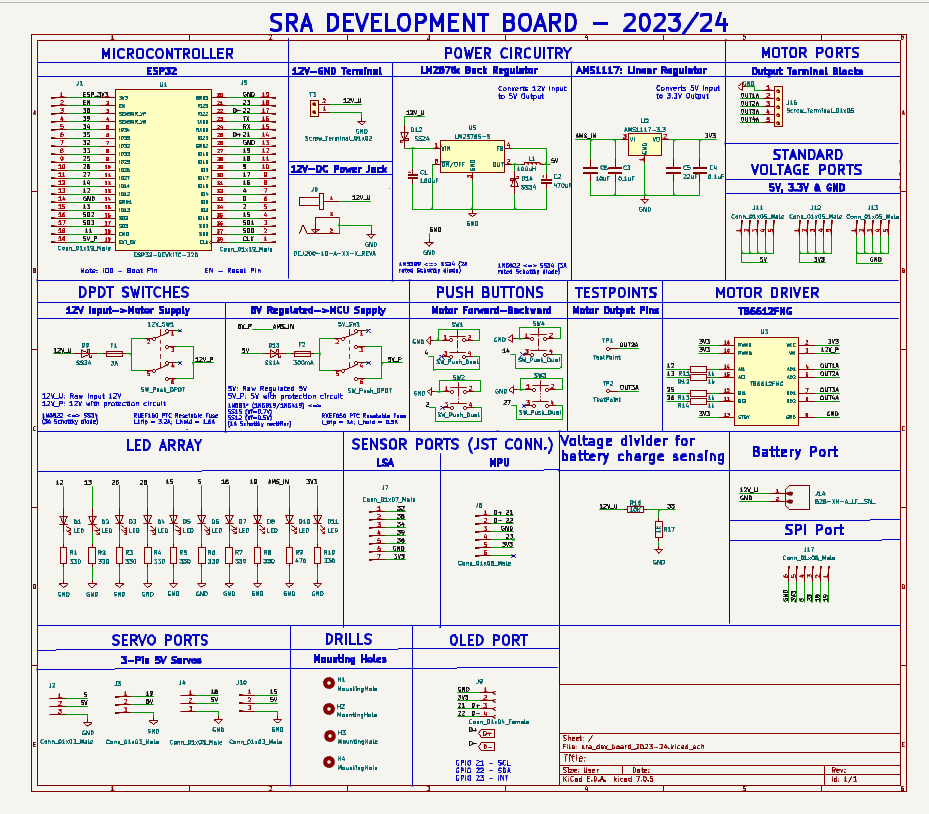
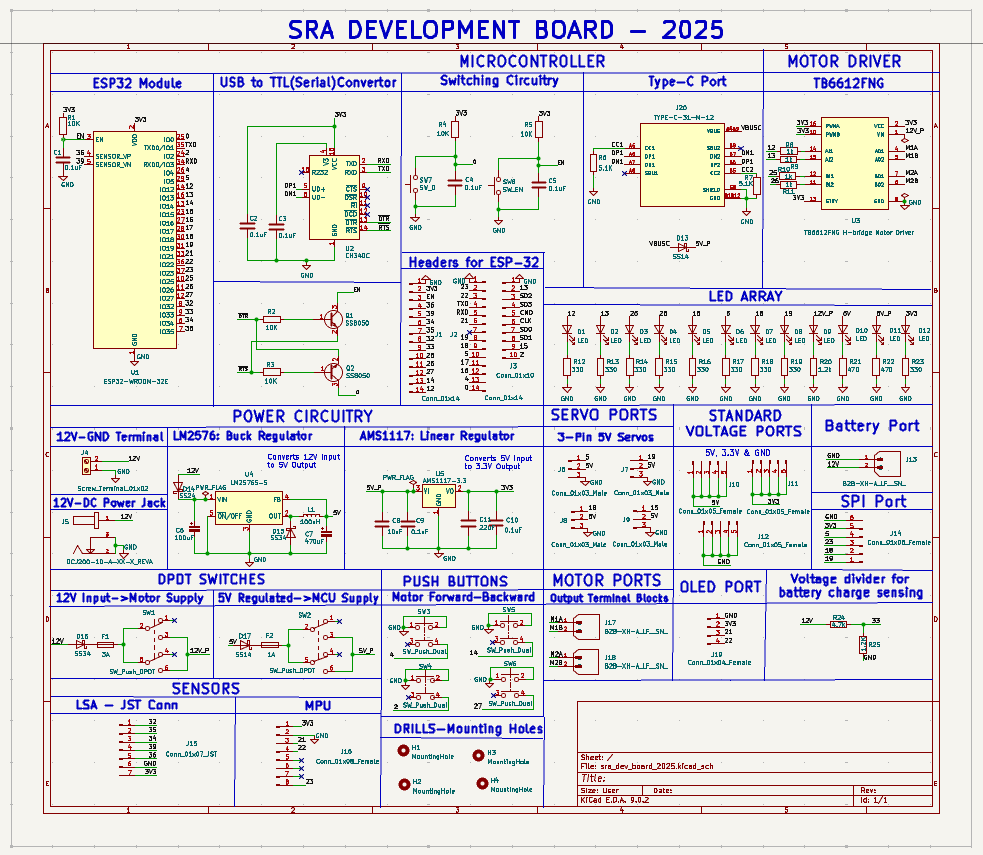
updated assets and readme for 2025 board

diff --git a/README.md b/README.md
@@ -15,11 +15,11 @@
   <p align="center">
     ESP32-based Development Board
     <br />
-    <a href="https://github.com/SRA-VJTI/sra-board-hardware-design/tree/master/sra_dev_board_2024">KiCAD</a>
+    <a href="https://github.com/SRA-VJTI/sra-board-hardware-design/tree/master/sra_dev_board_2025">KiCAD</a>
     ·
-    <a href="https://github.com/AtharvaAtre/SRA-Board/tree/master/gerbers">Gerber</a>
+    <a href="https://github.com/Vishal-Mutha/sra-board-hardware-design/tree/master/gerbers">Gerber</a>
     ·
-    <a href="https://github.com/AtharvaAtre/SRA-Board/blob/master/documentation/images/board_images/front.png">Images</a>
+    <a href="https://github.com/Vishal-Mutha/sra-board-hardware-design/blob/master/documentation/images/board_images/front.png">Images</a>
     ·
     <a href="https://a360.co/3c1Rjyv">3D Model</a>
   </p>
@@ -57,15 +57,15 @@ The SRA board is a development board based on ESP32 with on-board peripherals li
   <img width="410" height="450" src="./documentation/images/board_images/bottom.png"/>
 </p>
 
-- **Pinout**
+<!-- - **Pinout**
 <p align="center">
   <img width="540" height="450" src="./documentation/images/board_images/front_side_pinout.png"/>
-</p>
+</p> -->
 
 ## About the Project
 
 - This development board is used for the [Wall-E](https://github.com/SRA-VJTI/Wall-E) and [MARIO](https://github.com/SRA-VJTI/MARIO) workshops conducted by [SRA](https://github.com/SRA-VJTI).
-- Designed using KiCAD. The schematic and board files are [here](https://github.com/AtharvaAtre/SRA-Board/tree/master/sra_dev_board_2024).
+- Designed using KiCAD. The schematic and board files are [here](https://github.com/AtharvaAtre/SRA-Board/tree/master/sra_dev_board_2025).
 - Resources for [previous work](https://github.com/SRA-VJTI/sra-board-hardware-design/tree/v2.2).  For more details of the SRA board 2020, checkout this [link](https://github.com/SRA-VJTI/sra-board-hardware-design/releases/tag/v2.4).
 - The SRA board 2023 images can be found [here](https://github.com/SRA-VJTI/sra-board-hardware-design/tree/v2.4/documentation/images).
 - Older versions of the board and miscellaneous designs can be found [here](https://github.com/SRA-VJTI/PCB-Schematics-and-Layouts).
@@ -73,7 +73,7 @@ The SRA board is a development board based on ESP32 with on-board peripherals li
 ## Getting Started with a Development Board
 
 <p align="center">
-  <img width="410" height="400" src="./documentation/assets/boards_compare.png">
+  <img width="" height="400" src="./documentation/assets/boards_compare.png">
 </p>
 
 In general, every development board has the following basic features:
@@ -115,23 +115,28 @@ In general, every development board has the following basic features:
 
 > Now that we covered basics of development boards, let us talk about the changes made in the new design. 
 
-## Major Changes IN SRA Board Over the years from 2020-2024
-| Feature  |  SRA Board 2021  | SRA Board 2022 | SRA Board 2023 | SRA Board 2024 |
-|:----:|:-------:| :-----: | :-----: | :-----: |
-|[12V to 5V](#7805-5v-linear-regulator-to-lm2596-buck-convertor)  | LM2596 Buck Convertor | LM2596 Buck Converter | LM2576-S Buck Converter | LM2576-S Buck Converter |
-|[5V to 3.3V](#ld33-33v-to-ams1117)| AMS1117-3.3 | AMS1117-3.3 | AMS1117-3.3 | AMS1117-3.3 |
-|[Reverse Voltage Protection](#reverse-voltage-protection-diodes-to-p-mosfet) | P-MOSFET | Diodes | Diodes | Diodes |
-|[Line Sensing Arrays (LSA)](#lsa_2023) | Photodiodes| Photodiodes| IR Sensors| IR Sensors |
-|[Number of LSA Sensors](#num_of_sensors)| 4| 4| 5| 5 |
-|[Motor Driver](#l298n-to-tb6612fng)| TB6612FNG| TB6612FNG | TB6612FNG | TB6612FNG  |
-| [Stepper Motor Driver](#stepper-motor-driver-port-a4988) | - | - | A4988 | - |
-|[No. of DC Motor Channels](#motor-driver-modes)|4|4|2|2|
-|[No. of Stepper Motor Channels](#stepper-motor-driver-port-a4988)|0|0|1|1|
-|[No. of Switches](#moving-back-to-the-vintage-bar-graph-leds-and-more-switches)|4|4|4|2|
-|[No. of LEDs](#moving-back-to-the-vintage-bar-graph-leds-and-more-switches)|8|8|8|8|
-|[Over Current Protection](#protection-against-over-current)  | Bulky Glass Fuses | PTC Resettable Fuses | PTC Resettable Fuses| PTC Resettable Fuses|
-|[Sensor Port Connectors](#protection-against-over-current)  | JST (Japan Solderless Terminal) Connectors | JST (Japan Solderless Terminal) Connectors | JST Connectors | JST Connectors |
-|[Component Type and Board Size](#component-type-and-board-size)  | THT (Through Hole), Big | SMD(Surface Mount Device), Smaller | SMD(Surface Mount Device), Smaller| SMD(Surface Mount Device), Smaller|
+## Major Changes IN SRA Board Over the years from 2021-2025
+| Feature  |  SRA Board 2021  | SRA Board 2022 | SRA Board 2023 | SRA Board 2024 | SRA Board 2025 |
+|:----:|:-------:| :-----: | :-----: | :-----: | :-----: |
+|[12V to 5V](#7805-5v-linear-regulator-to-lm2596-buck-convertor)  | LM2596 Buck Convertor | LM2596 Buck Converter | LM2576-S Buck Converter | LM2576-S Buck Converter | LM2576-S Buck Converter |
+|[Reverse Voltage Protection](#reverse-voltage-protection-diodes-to-p-mosfet) | P-MOSFET | Diodes | Diodes | Diodes | Diodes |
+|[Line Sensing Arrays (LSA)](#lsa_2023) | Photodiodes| Photodiodes| IR Sensors| IR Sensors | IR Sensors |
+|[Number of LSA Sensors](#num_of_sensors)| 4| 4| 5| 5 | 5 |
+|[Motor Driver](#l298n-to-tb6612fng)| TB6612FNG| TB6612FNG | TB6612FNG | TB6612FNG | TB6612FNG |
+| [Stepper Motor Driver](#stepper-motor-driver-port-a4988) | - | - | A4988 | - | - |
+|[No. of DC Motor Channels](#motor-driver-modes)|4|4|2|2|2|
+|[No. of Stepper Motor Channels](#stepper-motor-driver-port-a4988)|0|0|1|1|0|
+|[No. of Switches](#moving-back-to-the-vintage-bar-graph-leds-and-more-switches)|4|4|4|2|2|
+|[No. of LEDs](#moving-back-to-the-vintage-bar-graph-leds-and-more-switches)|8|8|8|8|8|
+|[Over Current Protection](#protection-against-over-current)  | Bulky Glass Fuses | PTC Resettable Fuses | PTC Resettable Fuses| PTC Resettable Fuses | PTC Resettable Fuses |
+|[Sensor Port Connectors](#protection-against-over-current)  | JST (Japan Solderless Terminal) Connectors | JST (Japan Solderless Terminal) Connectors | JST Connectors | JST Connectors | JST Connectors |
+|[Component Type and Board Size](#component-type-and-board-size)  | THT (Through Hole), Big | SMD(Surface Mount Device), Smaller | SMD(Surface Mount Device), Smaller| SMD(Surface Mount Device), Smaller | SMD(Surface Mount Device), Smaller |
+|[ESP32 Dev Board](#esp32-dev-board) | Not Integrated | Not Integrated | Not Integrated | Not Integrated | Mounted and Soldered to PCB |
+|[Flashing Port](#flashing-port) | Micro USB | Micro USB | Micro USB | Micro USB | Type-C |
+
+
+Let me know if you'd like to turn this into a downloadable Markdown or HTML file.
+
 - ### **Compatiblity of SRA Board with Battery [3- 3.3V 2500mAh Batteries](https://robu.in/product/bak-nmc-18650-2500mah-8c-lithium-ion-battery/?gad_source=1&gclid=Cj0KCQjw6PGxBhCVARIsAIumnWb20iyJUEXE8V6eAfSambP35PfBsSFKje-ALjyNniqGYCW_kz3IbcQaAoeGEALw_wcB)**
     - This years SRA Board(2023-24) is compatible with batteries which have an external **[BMS(Battery Management System)](https://robu.in/product/3s-10a-12v-18650-lithium-battery-charger-board-protection-module/)**.
     - The BMS helps in maintaining an optimal voltage and disconnects itself when battery voltage drops below a significant voltage.
@@ -159,7 +164,7 @@ In general, every development board has the following basic features:
     <p align="center">
         <img width="460" height="300" src="https://i1.wp.com/dronebotworkshop.com/wp-content/uploads/2019/12/TB6612-vs-L298N.jpeg?w=768&ssl=1">
     </p>
-- ### **Stepper Motor Driver Port ([A4988](https://www.tme.eu/Document/25459777e672c305e474897eef284f74/POLOLU-2128.pdf))**(Not present in 2023-24 edition)
+- ### **Stepper Motor Driver Port ([A4988](https://www.tme.eu/Document/25459777e672c305e474897eef284f74/POLOLU-2128.pdf))**(Not present in 2023-24 and further)
     - In the Previous and older editions, there were two ports for TB6612FNG Motor Drivers but **it has been updated to one TB6612FNG and one A4988 Stepper Motor Driver in the current SRA Board (2023).** 
     - A4988 Stepper Motor Driver **a microstepping driver for controlling bipolar stepper motors** which has built-in translator for easy operation. This means that we can control the stepper motor with just 2 pins from our controller, or one for controlling the rotation direction and the other for controlling the steps.
     - The Driver provides five different step resolutions: full-step, haft-step, quarter-step, eight-step and sixteenth-step. Also, it has a potentiometer for adjusting the current output, over-temperature thermal shutdown and crossover-current protection.
@@ -195,7 +200,7 @@ In general, every development board has the following basic features:
         - There is an inbuilt BAT760 diode on the USB line on ESP32. If different voltages are applied at Vusb and Vin, then the voltage with bigger magnitude will be given to LD1117 (LDO on ESP32); often the voltage will be the same on Vin and Vusb i.e 5V.
         - But, the usage of the SS14 (currently, 1N5417 in previous edition) diode on the Vin path, which has more **Vf** (forward voltage) than the BAT760, will create a voltage indifference and in a simultaneous power supply condition, USB will be selected as its voltage will be more than Vin.
 
-## Notable problems in the current SRA Board
+## Notable problems in the previous SRA Board 
 - ### **The High Frequency RF noise Issue**
     - Currently 300rpm rated BO motors were ultilised for application. These are brushed DC motors functioning currently on 12v working on PWM concept.
     - These BO motors drain a lot of current during operation. **90 - 100 mA** - during *normal operation*.
@@ -220,7 +225,7 @@ In general, every development board has the following basic features:
 
 ## 3D Models
 
-1. The complete 3D model (.step) file of [SRA Board 2024](./3d_models/sra_board_model/sra_dev_board_2024.step)
+1. The complete 3D model (.step) file of [SRA Board 2024](./3d_models/sra_board_model/sra_dev_board_2025.step)
 2. The 3D models of motor driver, LEDs, ESP32 etc.: [3d models of other components](./3d_models/)
 
 <!-- Milestone -->
